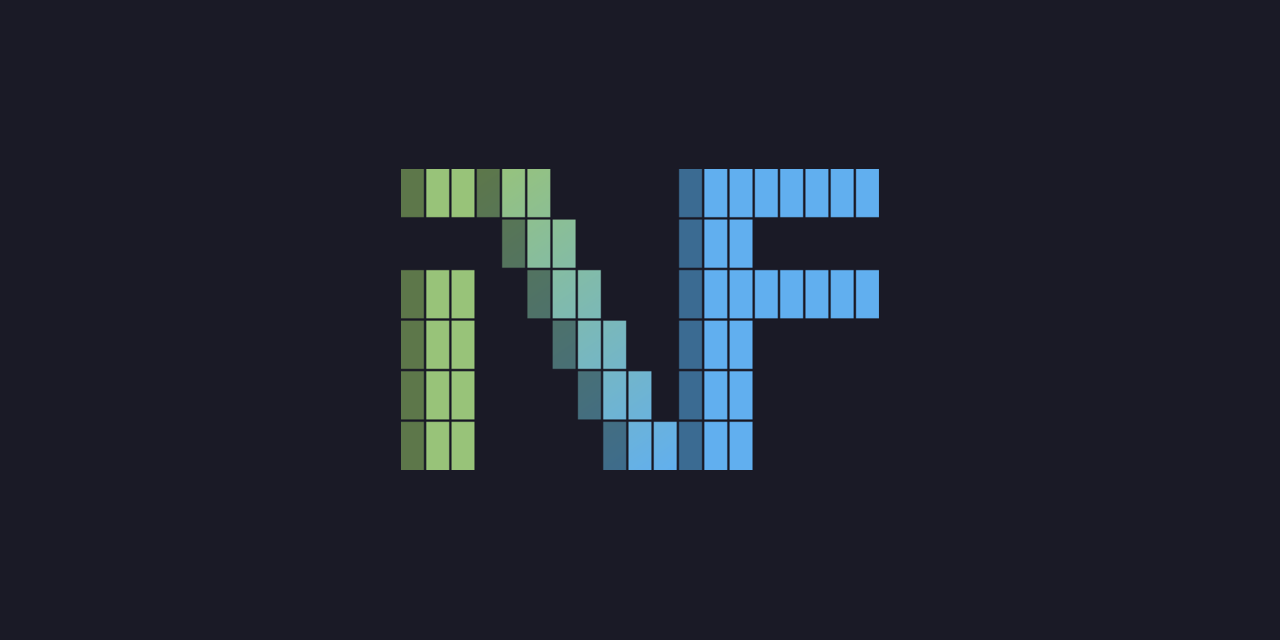
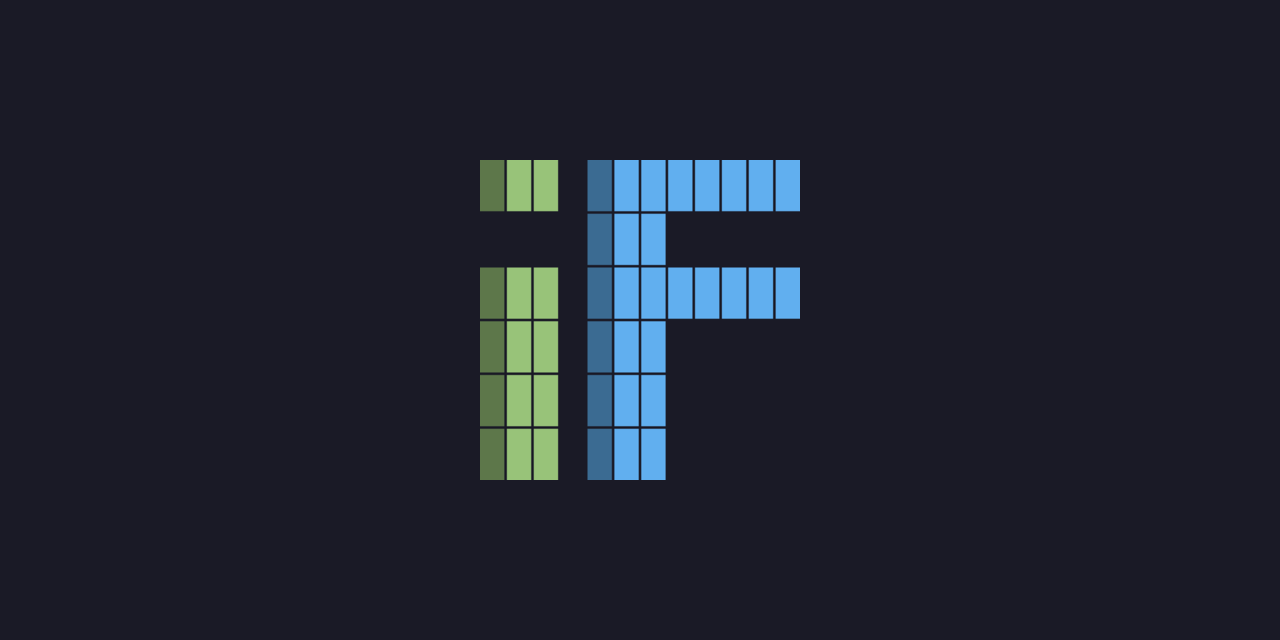
docs: make the diagonal if.nvim's, not the brand's
The diagonal came from Neovim's logo, which makes it right for the
distribution and borrowed everywhere else — a database client has no
claim on it. The brand mark drops it and becomes iF: twelve cells against
six, a true square, the same shape already serving as the avatar. One
mark now works at every size instead of a wide one that had to be
redrawn to fit a profile picture.

if.nvim keeps the diagonal and now carries the file itself rather than
pointing here, since it is the only thing that uses it.

The profile picture drops from 220 to 150, the square needing less width
than the wide mark did to read at the same weight.

Changed region(s): [[0.3125, 0.25, 0.6875, 0.75]]

diff --git a/profile/README.md b/profile/README.md
@@ -1,7 +1,7 @@
 <p align="center">
   <picture>
     <source media="(prefers-color-scheme: dark)" srcset="https://raw.githubusercontent.com/if-then-nvim/.github/main/assets/logo-dark.svg">
-    <img src="https://raw.githubusercontent.com/if-then-nvim/.github/main/assets/logo.svg" width="220" alt="if">
+    <img src="https://raw.githubusercontent.com/if-then-nvim/.github/main/assets/logo.svg" width="150" alt="if">
   </picture>
 </p>
 
